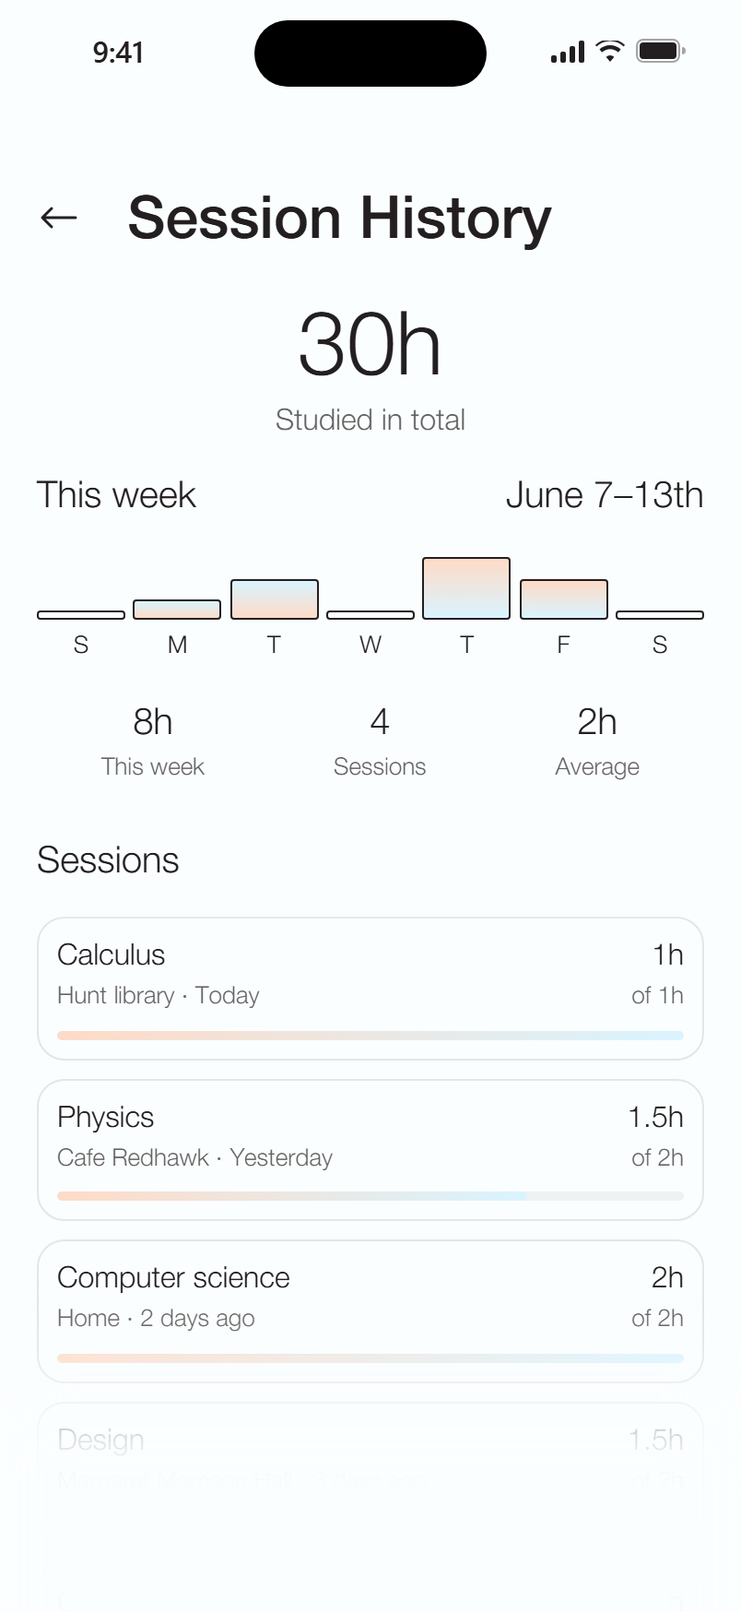
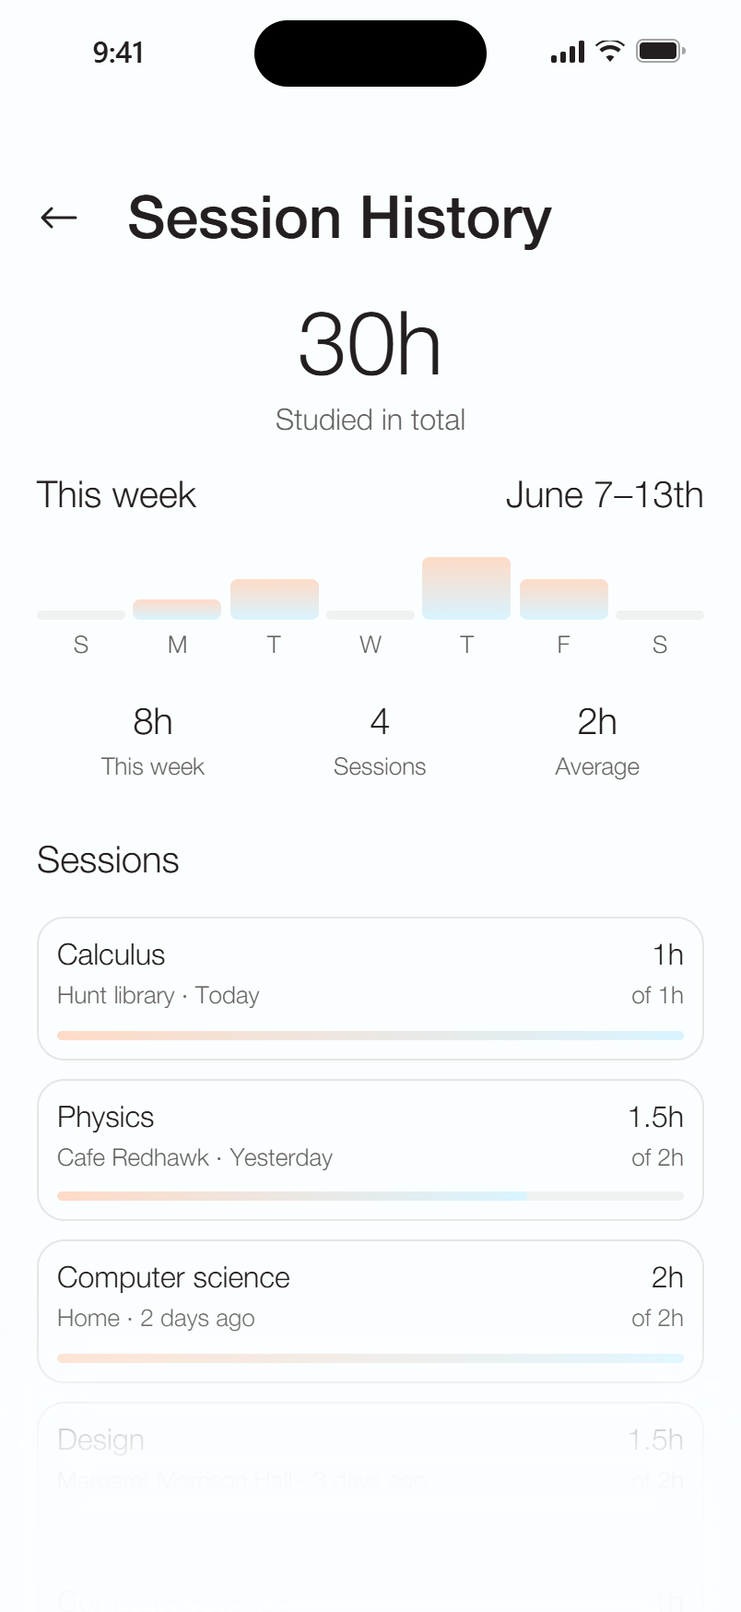
Bring in the latest Sessions prototype, its posters and component sheets
New map pin positions, the lost streak's copy and rounded bars, rounded
onboarding steps and week chart, darker timer labels, and focus handling
for sheets and the dial. The posters are each scene's new first frame.
The component sheets are rebuilt from the prototype's own components on
the original sheets' layout, and the streak sentence matches the screen.

diff --git a/work/sessions-prototype.html b/work/sessions-prototype.html
@@ -120,7 +120,7 @@ svg.i{display:block;flex:none}
 .iconbtn.pale{background:rgba(217,244,255,.5);border:1px solid rgba(255,255,255,.25)}
 .iconbtn.clear{background:rgba(255,255,255,.1);border:1px solid rgba(255,255,255,.25)}
 .small{position:relative;display:inline-flex;align-items:center;justify-content:center;height:36px;padding:0 20px;border-radius:10px;font-size:16px}
-.small::after{content:"";position:absolute;inset:-4px 0}
+.small::after{content:"";position:absolute;inset:-5px 0}
 .small.blue{background:var(--pale)}
 .small.line{border:1px solid var(--line);background:var(--bg)}
 
@@ -139,9 +139,9 @@ svg.i{display:block;flex:none}
 /* tab bar: near-black, the active tab under a glass lens */
 #tabbar{position:absolute;left:20px;bottom:50px;width:362px;height:47px;border-radius:36.654px;background:#231F20;z-index:40;display:none}
 #tabbar.on{display:block}
-#tabbar .lens{position:absolute;top:0;left:0;width:88.3px;height:46.9px;border-radius:36.654px;background:rgba(217,244,255,.2);border:1px solid rgba(255,255,255,.25);box-shadow:inset 0 2.8px 2.8px rgba(0,0,0,.25),0 2.8px 2.8px rgba(0,0,0,.25);transition:left .45s var(--spring)}
+#tabbar .lens{position:absolute;top:0;left:0;width:88.3px;height:46.9px;border-radius:36.654px;background:rgba(217,244,255,.4);border:1px solid rgba(255,255,255,.25);box-shadow:inset 0 2.8px 2.8px rgba(0,0,0,.25),0 2.8px 2.8px rgba(0,0,0,.25);transition:left .45s var(--spring)}
 #tabbar .tabs{position:absolute;inset:0;display:flex;justify-content:space-between;align-items:center;padding:0 54px 0 53px}
-#tabbar button{width:44px;height:44px;display:grid;place-items:center;color:rgba(217,244,255,.75);position:relative;z-index:1}
+#tabbar button{width:44px;height:44px;display:grid;place-items:center;color:rgba(217,244,255,.7);position:relative;z-index:1}
 #tabbar button[aria-current="page"]{color:#D9F4FF}
 
 /* sheets */
@@ -189,7 +189,9 @@ svg.i{display:block;flex:none}
 /* the session in view rises and whitens; the others step back */
 .pin.on{transform:translateY(-3px);z-index:5}
 .pin.on .dot,.pin.on .lab{background:linear-gradient(180deg,rgba(255,255,255,.82),rgba(251,254,255,.62))}
-.pin.dim{opacity:.8}
+.sr{position:absolute!important;width:1px;height:1px;margin:-1px;padding:0;overflow:hidden;clip:rect(0 0 0 0);white-space:nowrap;border:0}
+h1{font-weight:inherit;margin:0}
+.pin.dim{opacity:1}
 .pin.grp .dot,.pin.grp .lab{background:linear-gradient(135deg,rgba(217,244,255,.75),rgba(254,219,199,.75))}
 .pin.grp.on .dot,.pin.grp.on .lab{background:linear-gradient(135deg,#D9F4FF,#FEDBC7)}
 .mapcard{position:absolute;left:28px;right:28px;top:626px;z-index:5;display:flex;gap:12px;align-items:center;padding:12px 10px 12px 16px;border-radius:15px;background:var(--frost-bg);border:1px solid var(--frost-edge);-webkit-backdrop-filter:var(--frost-blur);backdrop-filter:var(--frost-blur);box-shadow:var(--frost-shadow)}
@@ -211,7 +213,7 @@ svg.i{display:block;flex:none}
 
 /* timer screens */
 .timer-dark .glow{will-change:auto}
-.tag{position:absolute;top:100px;left:50%;transform:translateX(-50%);display:flex;align-items:center;gap:10px;height:52px;padding:0 20px;color:var(--slate);font-size:24px;white-space:nowrap}
+.tag{position:absolute;top:100px;left:50%;transform:translateX(-50%);display:flex;align-items:center;gap:10px;height:52px;padding:0 20px;color:var(--deep);font-size:24px;white-space:nowrap}
 .readout{position:absolute;left:0;right:0;top:354px;text-align:center}
 .readout .num{font-size:96px;line-height:113px;letter-spacing:-1px;font-variant-numeric:tabular-nums}
 .readout .lab{font-size:20px;color:#FBFEFF;margin-top:10px}
@@ -223,14 +225,15 @@ svg.i{display:block;flex:none}
 .readout .num.bump{transform:scale(1.03)}
 .seg{position:absolute;top:100px;left:84px;width:234px;height:60px;border-radius:250px;display:flex;align-items:center;padding:3px;box-sizing:border-box}
 .seg .knob{position:absolute;top:2px;left:3px;width:111px;height:54px;border-radius:250px;background:var(--pale);border:1px solid rgba(255,255,255,.25);box-shadow:inset 0 1px 0 rgba(255,255,255,.7),0 2px 8px rgba(52,67,74,.1);transition:left .4s var(--spring),width .4s var(--spring)}
-.seg button{position:relative;z-index:1;flex:1;height:54px;font-size:24px;color:rgba(35,31,32,.5);transition:color .25s}
+.seg button{position:relative;z-index:1;flex:1;height:54px;font-size:24px;color:var(--ink50);transition:color .25s}
 .seg button[aria-pressed="true"]{color:var(--ink)}
 .hours{position:absolute;left:0;right:0;top:390px;text-align:center}
 .hours .big{font-size:96px;line-height:113px;letter-spacing:-1px;font-variant-numeric:tabular-nums}
-.hours .unit{font-size:20px;color:#FBFEFF;margin-top:10px}
+.hours .unit{font-size:24px;line-height:28px;color:#FBFEFF;margin-top:6px}
 .dial{position:absolute;left:0;top:565px;width:402px;height:309px;overflow:visible;touch-action:none;cursor:grab}
 .dial:active{cursor:grabbing}
-.dial:focus,.dial:focus-visible{outline:none}
+.dial:focus{outline:none}
+.dial:focus-visible{outline:2px solid var(--deep);outline-offset:-10px;border-radius:24px}
 .hours .big{transition:transform .16s var(--ease)}
 .hours .big.bump{transform:scale(1.02)}
 .go{position:absolute;right:20px;top:764px;width:217px;height:60px;border-radius:250px;display:flex;align-items:center;padding:5px;overflow:hidden;touch-action:none}
@@ -268,13 +271,13 @@ svg.i{display:block;flex:none}
 [data-screen=run] .iconbtn.glass{background:url(sessions-proto/g_close.png) 0 0/50px 50px no-repeat!important}
 [data-screen=dial] .seg .knob{background:url(sessions-proto/g_pub.png) 0 0/111px 54px no-repeat!important;border-radius:250px}
 [data-screen=dial] .go .knob{background:url(sessions-proto/g_go.png) 0 0/50px 49px no-repeat!important}
-.along{position:absolute;left:50%;top:670px;transform:translateX(-50%);display:flex;align-items:center;gap:20px;height:52px;padding:0 20px;color:var(--slate);font-size:24px;white-space:nowrap}
+.along{position:absolute;left:50%;top:670px;transform:translateX(-50%);display:flex;align-items:center;gap:20px;height:52px;padding:0 20px;color:var(--deep);font-size:24px;white-space:nowrap}
 
 /* onboarding */
 .steps{display:flex;gap:6px;flex:1}
-.steps i{position:relative;flex:1;height:5.625px;border-radius:4.5px;border:.5px solid var(--ink);background:transparent;overflow:hidden;box-sizing:border-box}
-.steps i::after{content:"";position:absolute;inset:0;background:var(--pale);transform:scaleX(0);transform-origin:left}
-.steps i.on::after{transform:none;opacity:.5}
+.steps i{position:relative;flex:1;height:5px;border-radius:250px;background:rgba(229,229,229,.5);overflow:hidden}
+.steps i::after{content:"";position:absolute;inset:0;border-radius:250px;background:var(--pale);transform:scaleX(0);transform-origin:left}
+.steps i.on::after{transform:none}
 .steps i.now::after{animation:stepfill .6s var(--ease) .15s both}
 @keyframes stepfill{from{transform:scaleX(0)}to{transform:none}}
 .obhead{position:absolute;left:20px;right:20px;top:100px;display:flex;align-items:center;gap:16px;height:24px}
@@ -283,12 +286,12 @@ svg.i{display:block;flex:none}
 .obtitle .h1{text-wrap:balance}
 .obtitle p{margin:0;font-size:16px;line-height:1.4;color:var(--ink50)}
 .inputline{display:flex;align-items:center;height:56px;padding:0 20px;border-radius:15px;border:1px solid var(--line);background:var(--bg);font-size:20px}
-.inputline input{flex:1;border:0;outline:none;background:none;font:inherit;font-weight:300;color:var(--ink);min-width:0}
+.inputline input{flex:1;align-self:stretch;border:0;outline:none;background:none;font:inherit;font-weight:300;color:var(--ink);min-width:0}
 .inputline input::placeholder{color:rgba(35,31,32,.4)}
 .textlink{font-size:16px;color:var(--slate);text-align:center;height:44px}
 .chips{display:flex;flex-wrap:wrap;gap:8px}
 .chip{position:relative;white-space:nowrap;height:39px;padding:0 10px;border-radius:10px;border:1px solid var(--line);font-size:16px;background:transparent;transition:background .2s,border-color .2s}
-.chip::after{content:"";position:absolute;inset:-3px 0}
+.chip::after{content:"";position:absolute;inset:-3px -3px}
 .chip[aria-pressed="true"]{background:rgba(217,244,255,.5);border-color:var(--slate)}
 .chip.add{width:39px;padding:0;display:grid;place-items:center}
 /* settings choices use the Settings row: line border, radius 15, 20px title over a 16px line, and a thin ink check on the chosen row (iOS list convention) */
@@ -307,7 +310,7 @@ svg.i{display:block;flex:none}
 
 /* field */
 .field{display:flex;align-items:center;justify-content:space-between;height:62px;padding:5px 5px 5px 25px;border-radius:61.8px;background:var(--frost-bg);border:1px solid var(--frost-edge);-webkit-backdrop-filter:var(--frost-blur);backdrop-filter:var(--frost-blur);box-shadow:var(--frost-shadow);width:100%}
-.field input{flex:1;background:none;border:0;outline:none;font-size:20px;color:var(--ink);min-width:0}
+.field input{flex:1;align-self:stretch;background:none;border:0;outline:none;font-size:20px;color:var(--ink);min-width:0}
 .field input::placeholder{color:var(--ink50)}
 .field .send{width:52px;height:52px;border-radius:50%;background:var(--ink);display:grid;place-items:center;color:var(--bg);flex:none}
 .search{display:flex;align-items:center;gap:20px;height:44px;padding:0 25px;border-radius:250px;background:rgba(217,244,255,.25);border:1px solid rgba(255,255,255,.25);-webkit-backdrop-filter:blur(12px);backdrop-filter:blur(12px);box-shadow:inset 0 1px 1px rgba(255,255,255,.6);font-size:20px}
@@ -413,7 +416,7 @@ const LIGHT={
 };
 
 /* street and place names, from the map's label layers (map coordinates, 900 × 876) */
-const MAPLABELS=(()=>{const L=[['Forbes Ave',271.7,120.9,-2.7,12,500,'#4F6670'],['Forbes Ave',877.6,235.1,52.1,12,500,'#4F6670'],['Schenley Dr',370.7,777.6,-31.3,12,500,'#4F6670'],['Tech St',519.3,638.9,-71.3,12,500,'#4F6670'],['Frew St',554.1,723.1,15.5,12,500,'#4F6670'],['Penton Rd',820.3,76.5,13,12,500,'#4F6670'],['Flagstaff Hill',260.4,758.4,0,13,300,'#4F6670'],['Westinghouse Pond',360.3,843,0,13,300,'#4F6670'],['Gesling Stadium',657.7,314.5,0,13,500,'#4F6670'],['Carnegie Mellon University',318,308.5,0,14,500,'#4F6670']];
+const MAPLABELS=(()=>{const L=[['Forbes Ave',271.7,120.9,-2.7,12,500,'#4F6670'],['Forbes Ave',877.6,235.1,52.1,12,500,'#4F6670'],['Schenley Dr',370.7,777.6,-31.3,12,500,'#4F6670'],['Tech St',519.3,638.9,-71.3,12,500,'#4F6670'],['Frew St',554.1,723.1,15.5,12,500,'#4F6670'],['Penton Rd',820.3,76.5,13,12,500,'#4F6670'],['Flagstaff Hill',260.4,758.4,0,13,300,'#4F6670'],['Westinghouse Pond',360.3,843,0,13,300,'#4F6670'],['Gesling Stadium',657.7,314.5,0,13,500,'#4F6670'],['Carnegie Mellon University',270,538.5,0,14,500,'#4F6670']];
   return `<svg class="maplabels" viewBox="0 0 900 876" aria-hidden="true">${L.map(([t,x,y,r,sz,w,c])=>`<text transform="translate(${x} ${y}) rotate(${r})" y="${(sz*.92).toFixed(1)}" font-size="${sz}" font-weight="${w}" fill="${c}" letter-spacing="${sz===12?.3:0}">${t}</text>`).join('')}</svg>`;})();
 
 /* ---------- state ---------- */
@@ -456,10 +459,13 @@ function setTab(id){
   TB.querySelector('.lens').style.left=[31,137,242][i]+'px';
   TB.querySelectorAll('button').forEach((b,k)=>{b.innerHTML=I(['pin','users','user'][k],32);b.toggleAttribute('aria-current',k===i);if(k===i)b.setAttribute('aria-current','page');});
 }
+document.documentElement.lang='en';
 function go(id,o={}){
   const t=o.t||'push';
   const s=el(`<section class="screen" data-screen="${id}" aria-label="${(SCR[id].label||id)}"></section>`);
   s.innerHTML=SCR[id].html(o);
+  const vh=s.querySelector('.h1:not(h1),.g36:not(h1)');if(vh&&!s.querySelector('h1')){const h=document.createElement('h1');h.className=vh.className;h.style.cssText=vh.style.cssText;h.innerHTML=vh.innerHTML;vh.replaceWith(h);}
+  if(!s.querySelector('h1'))s.insertAdjacentHTML('afterbegin',`<h1 class="sr">${SCR[id].label||id}</h1>`);
   VP.appendChild(s);
   if(SCR[id].mount)SCR[id].mount(s,o);
   const prev=cur;
@@ -482,16 +488,19 @@ let sheetClose=null;
 function openSheet(html,mount){
   closeSheet(true);
   const sh=el(`<div class="sheet" role="dialog" aria-modal="true"><div class="grab"></div>${html}</div>`);
-  OV.appendChild(sh);
+  const back_=document.activeElement;OV.appendChild(sh);sh.tabIndex=-1;
+  const ttl=sh.querySelector('.h1,.t24,.t20,p');if(ttl){ttl.id=ttl.id||'sheet-t';sh.setAttribute('aria-labelledby',ttl.id);}
+  setTimeout(()=>{(sh.querySelector('button,[href],input,[tabindex]:not([tabindex="-1"])')||sh).focus({preventScroll:true});},60);
+  sh.addEventListener('keydown',e=>{if(e.key==='Escape')closeSheet();});sh._back=back_;
   requestAnimationFrame(()=>requestAnimationFrame(()=>OV.classList.add('on')));
   if(mount)mount(sh);
   sheetClose=()=>{OV.classList.remove('on');setTimeout(()=>sh.remove(),reduce?0:450);};
 }
-function closeSheet(now){const s=OV.querySelector('.sheet');if(!s)return;if(now){OV.classList.remove('on');s.remove();return;}sheetClose&&sheetClose();}
+function closeSheet(now){const s=OV.querySelector('.sheet');if(!s)return;const bk=s._back;setTimeout(()=>{try{bk&&bk.isConnected&&bk.focus({preventScroll:true})}catch(e){}},0);if(now){OV.classList.remove('on');s.remove();return;}sheetClose&&sheetClose();}
 OV.querySelector('.scrim').addEventListener('click',()=>closeSheet());
 
 /* notification */
-function sysAlert(){const a=$('#sysalert');a.hidden=false;requestAnimationFrame(()=>a.classList.add('show'));a.querySelectorAll('[data-sa]').forEach(b=>b.onclick=()=>{const on=b.dataset.sa==='1';Object.keys(S.nudges).forEach(k=>S.nudges[k]=on&&k!=='quiet');a.classList.remove('show');setTimeout(()=>a.hidden=true,200);});}
+function sysAlert(){const a=$('#sysalert');a.hidden=false;requestAnimationFrame(()=>a.classList.add('show'));setTimeout(()=>a.querySelector('[data-sa="1"]').focus({preventScroll:true}),60);a.querySelectorAll('[data-sa]').forEach(b=>b.onclick=()=>{const on=b.dataset.sa==='1';Object.keys(S.nudges).forEach(k=>S.nudges[k]=on&&k!=='quiet');a.classList.remove('show');setTimeout(()=>a.hidden=true,200);});}
 function notify(html,onTap){const n=$('#note');n.innerHTML=`<span class="app" aria-hidden="true">${I('users',20)}</span><span style="flex:1;min-width:0">${html}</span>`;n.onclick=()=>{n.classList.remove('show');onTap&&onTap();};n.classList.add('show');}
 function unnotify(){$('#note').classList.remove('show');}
 
@@ -600,11 +609,11 @@ settings:{label:'Settings',html:()=>{
 
 map:{label:'Map',html:()=>{
   const quiet=S.quiet;
-  const pins=quiet?`<div class="pin" style="left:315px;top:479px"><span class="dot">${I('user',24)}</span><span class="lab"><span class="n">You</span></span></div>`:
-   `<button class="pin" data-pin="eileen" aria-label="Eileen" style="left:265px;top:247px"><span class="dot">${I('user',24)}</span><span class="lab"><span class="n">Eileen</span><span class="e">Ends in 1h 15m</span></span></button>
-    <button class="pin" data-pin="sean" aria-label="Sean" style="left:109px;top:176px"><span class="dot">${I('user',24)}</span><span class="lab"><span class="n">Sean</span><span class="e">Ends in 2h</span></span></button>
-    <button class="pin grp" data-pin="library" aria-label="Library Session" style="left:28px;top:402px"><span class="dot">${I('group',24)}</span><span class="lab"><span class="n">Library Session</span><span class="e">Ends in 1h 30m</span></span></button>
-    <div class="pin" style="left:315px;top:479px"><span class="dot">${I('user',24)}</span><span class="lab"><span class="n">You</span></span></div>`;
+  const pins=quiet?`<div class="pin" style="left:270px;top:482px"><span class="dot">${I('user',24)}</span><span class="lab"><span class="n">You</span></span></div>`:
+   `<button class="pin" data-pin="eileen" aria-label="Eileen" style="left:238px;top:232px"><span class="dot">${I('user',24)}</span><span class="lab"><span class="n">Eileen</span><span class="e">Ends in 1h 15m</span></span></button>
+    <button class="pin" data-pin="sean" aria-label="Sean" style="left:42px;top:186px"><span class="dot">${I('user',24)}</span><span class="lab"><span class="n">Sean</span><span class="e">Ends in 2h</span></span></button>
+    <button class="pin grp" data-pin="library" aria-label="Library Session" style="left:84px;top:360px"><span class="dot">${I('group',24)}</span><span class="lab"><span class="n">Library Session</span><span class="e">Ends in 1h 30m</span></span></button>
+    <div class="pin" style="left:270px;top:482px"><span class="dot">${I('user',24)}</span><span class="lab"><span class="n">You</span></span></div>`;
   const cards=LIVE.map((L,i)=>`<div class="mapcard${i===S.card?' on':''}" data-card="${L.key}" role="group" aria-roledescription="slide" aria-label="${L.name}, ${i+1} of ${LIVE.length}"><span class="who">${I(L.icon,32)}</span><div class="meta"><span class="t20">${L.name}</span><span class="t12">${L.lines.join('<br>')}</span></div><div class="stack" style="gap:8px;flex:none"><button class="small blue" data-join="${L.key}">Join</button><button class="small line" data-view="${L.key}">View</button></div></div>`).join('');
   const card=quiet?
    `<div class="mapcard" style="flex-direction:column;align-items:stretch;gap:12px;top:auto;bottom:150px"><div class="stack" style="gap:4px"><span class="t20">Usually busy after 8 pm</span><span class="t12 mut" style="line-height:1.4">Sean and Eileen study at Hunt Library most weeknights. Start one now and friends nearby will see it.</span></div><button class="small blue" data-go="ask" style="height:40px">Start a public session</button></div>`:
@@ -762,7 +771,7 @@ challenge:{label:'Weekly challenge',html:()=>{
     <div class="stack" style="gap:10px">${mem.map(([n,h,w])=>`<${n==='You'?'div':`button data-friend="${n.toLowerCase()}"`} class="card stack" style="padding:10px;gap:10px;width:100%;text-align:left"><div style="display:flex;align-items:center;justify-content:space-between"><span style="display:flex;align-items:center;gap:20px"><span class="avatar">${I('user')}</span><span class="t16">${n}</span></span><span class="t16">${h}</span></div><div class="bar"><i style="width:${w/342*100}%"></i></div></${n==='You'?'div':'button'}>`).join('')}</div>
     <div style="position:relative;overflow:hidden;margin-top:20px;border:1px solid var(--line);border-radius:15px;padding:20px" class="stack">${G(220,-20,150,186,'#D9F4FF',31)}${G(170,0,120,90,'rgba(254,219,199,.5)',31)}<span class="t20" style="position:relative">3.3h left to hit the goal</span><span class="t16 mut" style="position:relative;margin-top:5px">Invite your friends and reach your goal</span><button class="btn primary" data-go="ask" style="position:relative;margin-top:16px">Start session now</button></div>
     <div class="t20" style="margin:30px 0 10px">Past challenges</div>
-    <div class="stack" style="gap:10px"><div class="card" style="display:flex;justify-content:space-between;align-items:center;padding:14px"><span class="stack"><span class="t20">Last week</span><span class="t12 mut">10h/10h completed</span></span><span class="t20 accent">completed</span></div>
+    <div class="stack" style="gap:10px"><div class="card" style="display:flex;justify-content:space-between;align-items:center;padding:14px"><span class="stack"><span class="t20">Last week</span><span class="t12 mut">10h/10h completed</span></span><span class="t20">completed</span></div>
       <div class="card" style="display:flex;justify-content:space-between;align-items:center;padding:14px"><span class="stack"><span class="t20">2 weeks ago</span><span class="t12 mut">7h/10h completed</span></span><span class="t20 mut">incomplete</span></div></div>
   </div></div><div class="fade-bottom"></div>`}},
 
@@ -773,7 +782,7 @@ history:{label:'Session history',html:()=>{
     <div style="display:flex;align-items:center;gap:25px">${back_}<h1 class="h1">Session History</h1></div>
     <div class="stack center" style="margin-top:20px;gap:5px"><span style="font-size:48px;line-height:56px;color:var(--ink)">30h</span><span class="t16 mut">Studied in total</span></div>
     <div style="display:flex;justify-content:space-between;margin-top:20px" class="t20"><span>This week</span><span>June 7–13th</span></div>
-    <div style="display:flex;gap:4.5px;align-items:flex-end;height:60px;margin-top:20px">${days.map(([d,h],i)=>`<div class="stack center" style="width:48px;gap:5px;justify-content:flex-end;height:100%"><span data-bar style="display:block;height:${Math.max(h,5.6)}px;border:.5px solid var(--ink);border-radius:2px;background:${h?`linear-gradient(${i>3?'180deg':'0deg'},#FEDBC7,#D9F4FF)`:'transparent'};transform-origin:bottom"></span><span class="t12">${d}</span></div>`).join('')}</div>
+    <div style="display:flex;gap:4.5px;align-items:flex-end;height:60px;margin-top:20px">${days.map(([d,h],i)=>`<div class="stack center" style="width:48px;gap:5px;justify-content:flex-end;height:100%"><span data-bar style="display:block;height:${Math.max(h,5.6)}px;border-radius:4px;background:${h?'linear-gradient(180deg,#FEDBC7,#D9F4FF)':'rgba(229,229,229,.5)'};transform-origin:bottom"></span><span class="t12 mut">${d}</span></div>`).join('')}</div>
     <div style="display:flex;justify-content:space-around;margin-top:20px">${[['8h','This week'],['4','Sessions'],['2h','Average']].map(([a,b])=>`<div class="stack center" style="gap:5px"><span class="t20">${a}</span><span class="t12 mut">${b}</span></div>`).join('')}</div>
     <div class="t20" style="margin:30px 0 10px">Sessions</div></div>
     <div class="scroll hlist" data-scroll style="position:relative;flex:1;min-height:0;padding:10px 20px 50px"><div class="stack" style="gap:10px">${ses.map(([s1,p,d,h,o,w])=>`<div class="card stack" style="padding:10px;gap:10px"><div style="display:flex;justify-content:space-between"><span class="stack" style="gap:5px"><span class="t16">${s1}</span><span class="t12 mut">${p} ⋅ ${d}</span></span><span class="stack" style="gap:5px;align-items:flex-end"><span class="t16">${h}</span><span class="t12 mut">${o}</span></span></div><div class="bar"><i style="width:${w}%"></i></div></div>`).join('')}</div></div>
@@ -782,19 +791,19 @@ history:{label:'Session history',html:()=>{
 streak:{label:'Streak lost',html:()=>`${LIGHT.cold}
   <div class="center" style="position:absolute;left:83px;right:83px;top:100px"><div class="h1">You went cold.</div><div class="t16 mut" style="margin-top:12px;line-height:1.4">Your 14 day streak is lost.<br>Your friends noticed.</div></div>
   <div style="position:absolute;left:89px;top:204px">${ART.ice}</div>
-  <div class="pad stack" style="top:430px;gap:20px">
-    <div style="display:flex;gap:50px;justify-content:center;padding:20px 10px;border-radius:15px;background:rgba(217,244,255,.5);border:1px solid rgba(255,255,255,.25)"><div class="stack center" style="gap:5px;width:110px"><span class="t16 mut">Streak lost</span><span class="mut" style="font-size:32px;text-decoration:line-through;text-decoration-thickness:1px">14 days</span></div><div class="stack center" style="gap:5px"><span class="t16">New streak</span><span style="font-size:32px">0 days</span></div></div>
-    <div class="stack center" style="gap:12px;padding:20px 10px;border-radius:15px;background:rgba(217,244,255,.5);border:1px solid rgba(255,255,255,.25)"><span class="t20">Rebuild it</span><span class="t16">Study 3 sessions in 3 days to get back on track!</span>
-      <div style="display:flex;gap:6px;justify-content:center;margin-top:6px">${[1,2,3].map(d=>`<div class="stack center" style="gap:5px"><span style="display:block;width:100px;height:6px;border-radius:4.5px;border:.5px solid var(--ink);background:${d===1?'linear-gradient(90deg,#FEDBC7,#D9F4FF)':'var(--bg)'}"></span><span class="t12">Day ${d}</span></div>`).join('')}</div></div>
+  <div class="pad stack" style="top:420px;gap:12px">
+    <div style="display:flex;gap:40px;justify-content:center;padding:20px 10px;border-radius:15px;background:rgba(217,244,255,.5);border:1px solid rgba(255,255,255,.25)"><div class="stack center" style="gap:5px;width:120px;white-space:nowrap"><span class="t16 mut">Streak lost</span><span class="mut" style="font-size:32px;text-decoration:line-through;text-decoration-thickness:1px">14 days</span></div><div class="stack center" style="gap:5px"><span class="t16">New streak</span><span style="font-size:32px">0 days</span></div></div>
+    <div class="stack center" style="gap:12px;padding:20px 10px;border-radius:15px;background:rgba(217,244,255,.5);border:1px solid rgba(255,255,255,.25)"><span class="t20">Rebuild it</span><span class="t16">Study 3 days in a row to get it back.</span>
+      <div style="display:flex;gap:6px;justify-content:center;margin-top:6px">${[1,2,3].map(d=>`<div class="stack center" style="gap:5px"><span style="display:block;width:100px;height:5px;border-radius:250px;background:${d===1?'linear-gradient(90deg,#FEDBC7,#D9F4FF)':'rgba(229,229,229,.5)'}"></span><span class="t12 mut">Day ${d}</span></div>`).join('')}</div></div>
   </div>
-  <div class="pad stack" style="bottom:50px;gap:20px"><button class="btn primary" data-go="ask">Start session now</button><button class="btn secondary" data-go="map" data-root>Maybe later</button></div>`},
+  <div class="pad stack" style="bottom:50px;gap:12px"><button class="btn primary" data-go="ask">Start session now</button><button class="btn secondary" data-go="map" data-root>Maybe later</button></div>`},
 
 milestone:{label:'Milestone reached',html:()=>`${LIGHT.cool}
   <div class="center t20" style="position:absolute;left:0;right:0;top:100px">Milestone reached</div>
   <div style="position:absolute;left:53px;top:174px;transform:scale(1.1);transform-origin:top left">${ART.popper('#D9F4FF','#FBFEFF','pb')}</div>
   <div class="pad stack" style="top:401px;gap:50px"><div class="stack center" style="gap:10px"><div class="h1">10 hours</div><div class="t20">You've put in some serious work.</div></div>
     <div class="stack" style="gap:20px"><div class="row" style="padding:10px"><span class="avatar">${I('user')}</span><span class="txt"><span class="a">Profile badge</span><span class="b">Shown on your pin and friends list</span></span></div>
-      <div class="card stack" style="padding:10px;gap:10px"><span class="t20 center">Next milestone</span><div style="display:flex;justify-content:space-between" class="t16"><span class="accent">10h to go</span><span>20 hours</span></div><div class="bar"><i style="width:50%"></i></div></div></div></div>
+      <div class="card stack" style="padding:10px;gap:10px"><span class="t20 center">Next milestone</span><div style="display:flex;justify-content:space-between" class="t16"><span class="mut">10h to go</span><span>20 hours</span></div><div class="bar"><i style="width:50%"></i></div></div></div></div>
   <div class="pad" style="bottom:50px"><button class="btn primary" data-go="map" data-root style="border-radius:250px;height:48px">Keep going</button></div>`}
 };
 

diff --git a/work/sessions.html b/work/sessions.html
@@ -179,7 +179,7 @@
         <figcaption class="pos-state__cap">Type and colour</figcaption>
       </figure>
       <figure class="pos-state">
-        <a class="pos-plate" href="../images/sessions/kit/components.png" data-viewer data-cursor="view"><img loading="lazy" decoding="async" src="../images/sessions/kit/components.png" width="2400" height="1741" alt="The components: the tab bar in its three states and round icon buttons; primary, secondary and get-started buttons; chips, filters, the public or private switch and onboarding steps; the search field and friend, menu, member and session rows; cards for friends studying now, a group session, an invite, session stats, studied alongside, a lost streak, rebuilding it and the next milestone; the group goal ring, the week chart, and friend, you and group pins" /></a>
+        <a class="pos-plate" href="../images/sessions/kit/components.png" data-viewer data-cursor="view"><img loading="lazy" decoding="async" src="../images/sessions/kit/components.png" width="2400" height="1625" alt="The components: the tab bar in its three states and round icon buttons; primary, secondary and get-started buttons; chips, filters, the public or private switch and onboarding steps; the search field and friend, menu, member and session rows; cards for friends studying now, a group session, an invite, session stats, studied alongside, a lost streak, rebuilding it and the next milestone; the group goal ring, the week chart, and friend, you and group pins" /></a>
         <figcaption class="pos-state__cap">Components, on the colours they sit on</figcaption>
       </figure>
       <figure class="pos-state">
@@ -415,7 +415,7 @@
       </div>
       <div class="split-text">
         <h3 class="cap-moment">When a streak breaks</h3>
-        <p class="cap-body">Missing a day ends the streak; three sessions in three days rebuild it. A broken streak puts people off less when it can be repaired.</p>
+        <p class="cap-body">Missing a day ends the streak; studying three days in a row rebuilds it. A broken streak puts people off less when it can be repaired.</p>
       </div>
     </div>
 
